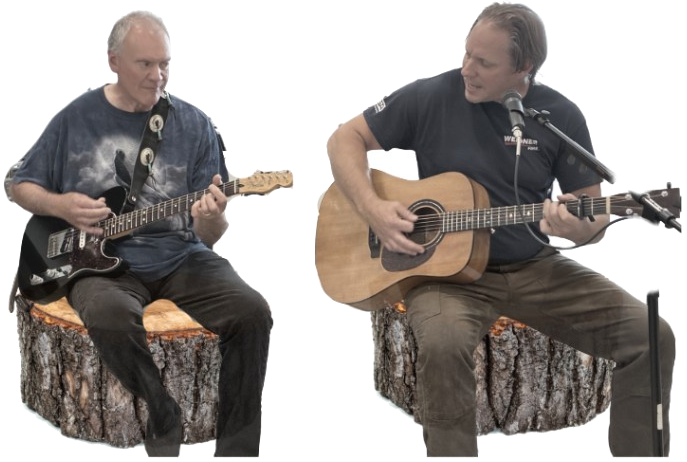
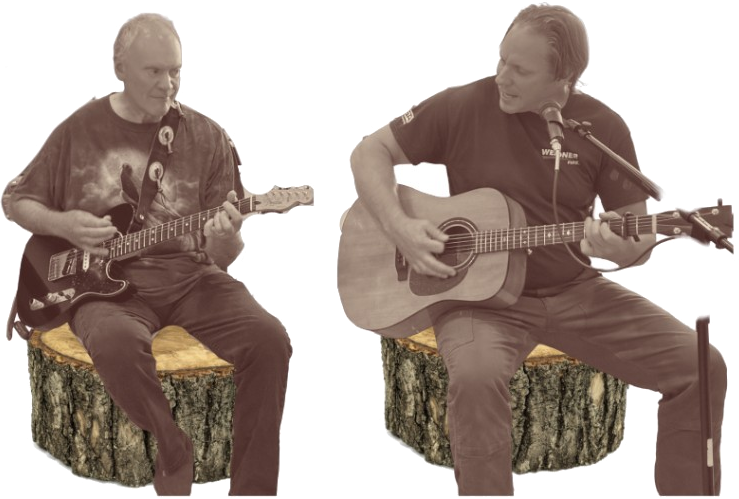
Tighten EPK About layout with the updated duo cutout.

diff --git a/src/pages/EPKPage.tsx b/src/pages/EPKPage.tsx
@@ -89,11 +89,19 @@ export function EPKPage() {
         </div>
       </section>
 
-      <section id="bio" className="scroll-mt-36 px-4 py-16">
-        <div className="mx-auto grid max-w-6xl gap-10 lg:grid-cols-[1fr_280px]">
+      <section id="bio" className="scroll-mt-36 px-4 py-12 md:py-14">
+        <div className="mx-auto grid max-w-6xl gap-8 lg:grid-cols-[1fr_280px] lg:items-start lg:gap-10">
           <div>
             <h2 className="ss-section-heading">About the duo</h2>
-            <p className="mt-4 text-lg leading-relaxed text-ss-cream">{bio.short}</p>
+            <p className="mt-3 text-lg leading-relaxed text-ss-cream">{bio.short}</p>
+            <figure className="mt-5 max-w-xl">
+              <img
+                src={aboutDuoPhoto.src}
+                alt={aboutDuoPhoto.alt}
+                className="h-auto w-full object-contain drop-shadow-2xl"
+                loading="lazy"
+              />
+            </figure>
           </div>
           <aside className="ss-card h-fit p-6">
             <h3 className="text-sm font-semibold uppercase tracking-widest text-ss-gold">Lineup</h3>
@@ -123,15 +131,6 @@ export function EPKPage() {
             </ul>
           </aside>
         </div>
-
-        <figure className="mx-auto mt-10 max-w-3xl">
-          <img
-            src={aboutDuoPhoto.src}
-            alt={aboutDuoPhoto.alt}
-            className="mx-auto h-auto w-full max-w-2xl object-contain drop-shadow-2xl"
-            loading="lazy"
-          />
-        </figure>
       </section>
 
       <section